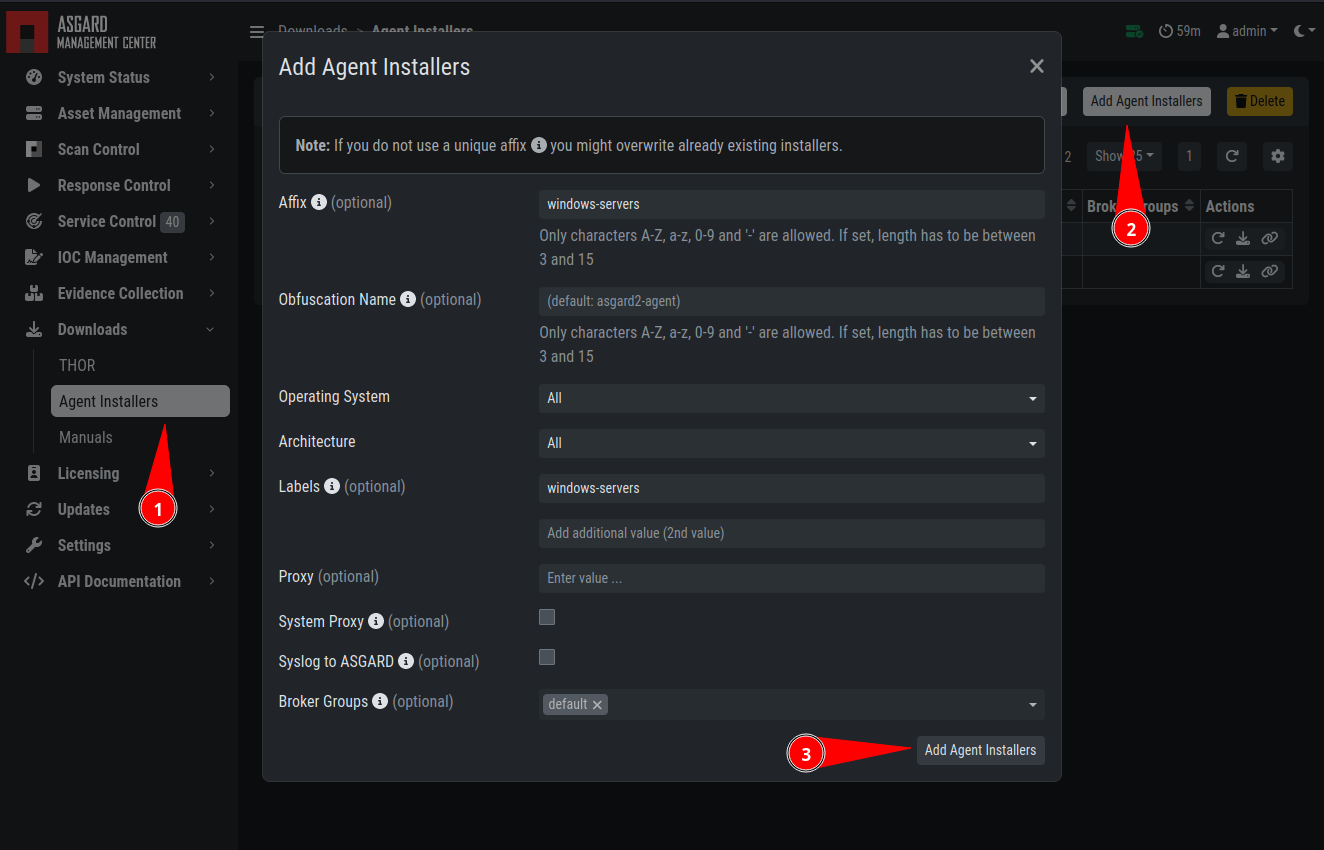
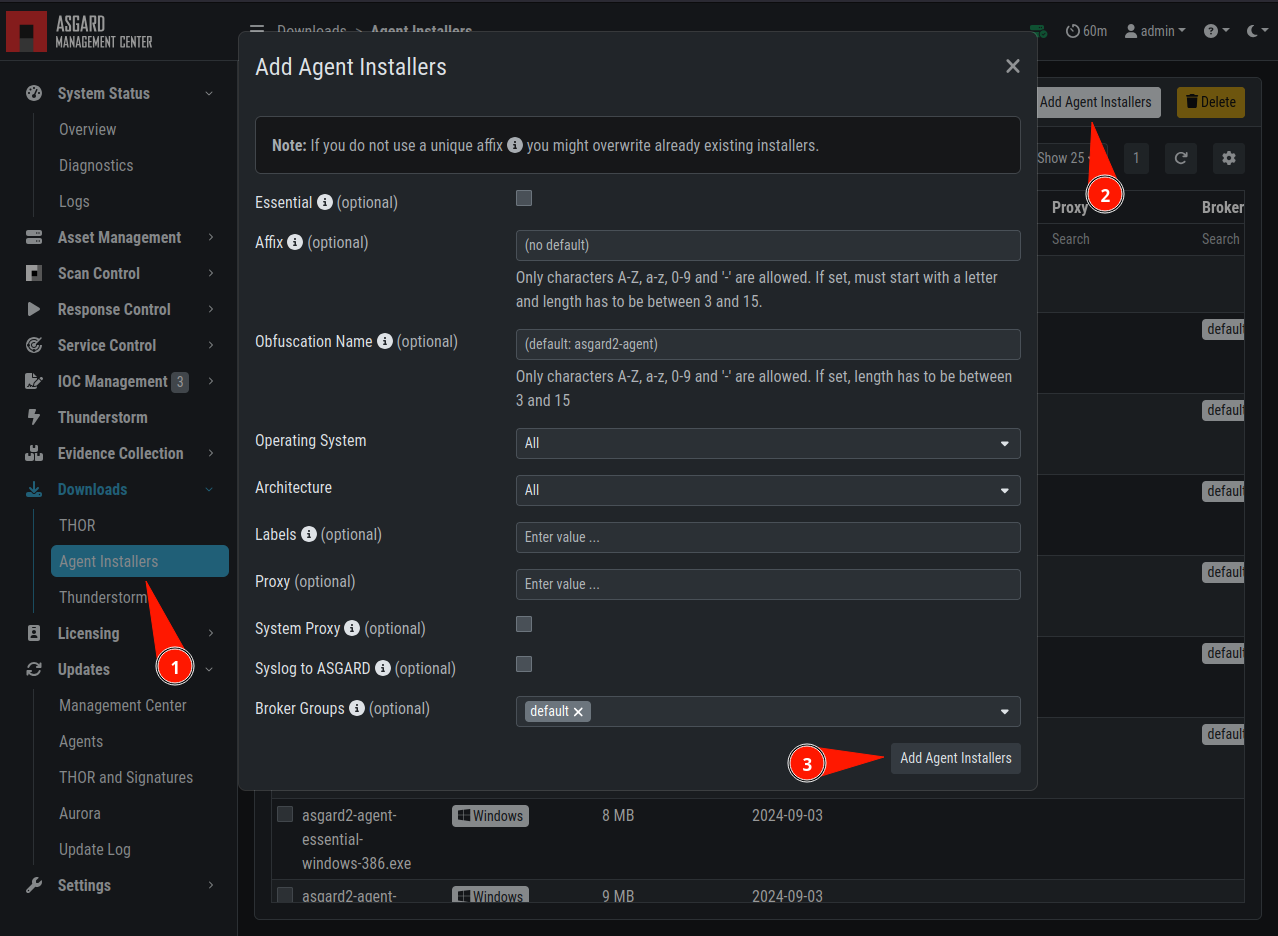
chore: new essential agent mode

diff --git a/advanced/performance.rst b/advanced/performance.rst
@@ -45,38 +45,4 @@ The default values are:
 
 These values should work fine in most scenarios – regardless of the size
 of the installation. However, you may want to decrease PingRateMax
-in order to achieve a better responsiveness of your ASGARD infrastructure. 
-
-Overloading ASGARD
-^^^^^^^^^^^^^^^^^^
-
-While temporary stream overloads are quite normal, connection overloads
-should not happen. If they do, either adjust your PingRateMax, your LoadConnMax or both. 
-
-ASGARD will indicate an overload with the "Connection Overload line"
-and the "Stream Overload line" within the graphs in the overview
-section (see picture below). If an ASGARD is in an overload situation
-it will postpone connections and streams but will not lose or drop
-tasks or be harmed in any way. ASGARD will recover to normal load automatically.
-
-.. figure:: ../images/asset-connections-and-streams1.png
-   :alt: Asset Connections and Asset Streams
-
-   Asset Connections and Asset Streams 
-
-Stream overloads can happen temporarily (e.g. if you schedule a grouped
-scan or grouped task with an unlimited rate). The picture below
-shows such a normal overload situation that was caused by starting
-a grouped scan with an unlimited rate. This is the expected behavior.
-ASGARD will manage the load automatically and postpone streams until
-the load has returned to normal.
-
-.. figure:: ../images/asset-connections-and-streams2.png
-   :alt: Asset Streams in an overload situation
-
-   Asset Streams in an overload situation
-
-The "Busy Streams" line indicates the number of streams currently active. 
-s you might have guessed, the picture above was taken on an ASGARD in
-default configuration where the number of concurrent streams is set
-to the default value of 25.
+in order to achieve a better responsiveness of your ASGARD infrastructure.

diff --git a/administration/agent.rst b/administration/agent.rst
@@ -3,6 +3,15 @@
 ASGARD Agent Deployment
 -----------------------
 
+There are currently two modes of operation for the ASGARD Agent:
+
+- **Normal** - This is the default mode and allows usage of all ASGARD features.
+- **Essential** - This is a lightweight mode which only allows THOR scanning
+  and Aurora deployment.
+
+Please note that the Agent in Essential Mode is a separate installer and
+needs to be created in the :ref:`advanced/custom-agent:creating custom agent installers`
+
 In order to register a new endpoint to the ASGARD Management Center,
 download and install the ASGARD Agent on the system you want to register. 
 

diff --git a/requirements/before.rst b/requirements/before.rst
@@ -46,4 +46,4 @@ Using a Proxy between ASGARD Agent and ASGARD
 
 ASGARD supports using a standard http proxy for the entire Agent to
 ASGARD communication. In order to use a proxy, the ASGARD agent must
-be repacked after installation. For details, see :ref:`advanced/custom-agent:creating custom agent installer`.
+be repacked after installation. For details, see :ref:`advanced/custom-agent:creating custom agent installers`.

diff --git a/advanced/custom-agent.rst b/advanced/custom-agent.rst
@@ -1,7 +1,7 @@
 .. index:: Creating Custom Agent Installer
 
-Creating Custom Agent Installer
-===============================
+Creating Custom Agent Installers
+================================
 
 ASGARD supports creation of custom installers. Custom installers can be
 configured in a way so that agents show up with a preset label or with a
